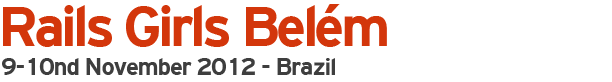
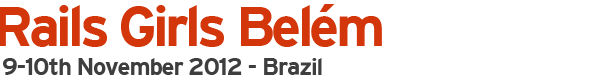
Added more information about the event and changed a letter on the image

Changed region(s): [[0.0, 0.0488, 0.652, 0.5854], [0.0, 0.7073, 0.5588, 0.9268]]

diff --git a/belem.html b/belem.html
@@ -80,92 +80,104 @@
         <hr />          
         
  	 <div class="grid_6 alpha">
-				        <h2>Day 1: 9 de Novembro</h2>
+				        <h2>Dia 1: 9 de Novembro</h2>
 				        <table id="schedule">
 				          <tbody>
 				            <tr>
-				                <th> </th>
+				                <th>19:00 </th>
 				              <td>
 				                <h4>Introduction to Rails Girls</h4>
 
 				              </td>
 				            </tr>
+					    <tr>
+				                <th>19:15 </th>
+				              <td>
+				                <h4>Palestrante</h4>
+						A definir.
 
+				              </td>
+				            </tr>
+					    <tr>
+				                <th>19:30 </th>
+				              <td>
+				                <h4>Instalação</h4>
+						Conheça os coaches e participantes um pouco antes. Traga o seu laptop para instalarmos
+                    o Ruby on Rails para você.
+				              </td>
+				            </tr>
 
 				          </tbody>
 				        </table>
 
 				        <hr />          
 
-				        <h2>Day 2: 10 de Novembro</h2>
+				        <h2>Dia 2: 10 de Novembro</h2>
 
 				           Durante a manhã vamos instalar o Ruby on Rails no seu computador, se você teve algum problema antes.
 
 				                       Faça a sua primeira aplicação web. Teremos pequenas lightning talks, exercícios e vamos por a mão na massa no código.
-									 <table id="schedule">
-								          <tbody>
-								          <tr>
-								            <th></th>
-								            <td>
-								              <h4></h4>
-								                 
-								            </td>
-								          </tr>
-
-								          <tr>
-								            <th></th>
-								            <td>
-								                <h4></h4>
-								            </td>
-								          </tr>
-								              <tr>
-								                  <th></th>
-								                  <td>
-								                      <h4></h4>
-								                  </td>
-								              </tr>
-								              <tr>
-								                  <th></th>
-								                  <td>
-								                      <h4></h4>
-								                  </td>
-								              </tr>
-								              <tr>
-								                  <th></th>
-								                  <td>
-								                      <h4> </h4>
-
-								                     
-								                  </td>
-								              </tr>
-								              <tr>
-								                  <th></th>
-								                  <td>
-								                      <h4></h4>
-								                  </td>
-								              </tr>
-								              <tr>
-								                  <th></th>
-								                  <td>
-								                      <h4></h4>
-								                  </td>
-								              </tr>
-								              <tr>
-								                  <th></th>
-								                  <td>
-								                      <h4></h4>
-								                  </td>
-								              </tr>
-
-								          <tr>
-								            <th></th>
-								            <td>
-								              <h4></h4>
-								              
-								            </td>
-								          </tr>
-								          </tbody>
-								        </table>
+					  <table id="schedule">
+					  <tbody>
+					  <tr>
+					  <th>9:00</th>
+					  <td>
+					    <h4>Confirmação do seu cadastro & Café da Manhã</h4>
+					  </td>
+					  </tr>
+					  <tr>
+					  <th>10:00</th>
+					  <td>
+					      <h4>Welcome & Intro to Rails: Raquel Ohashi</h4>
+					  </td>
+					  </tr>
+					  <tr>
+					  <th>10:15</th>
+					  <td>
+					      <h4>Palestrante</h4>
+					      A definir.
+					  </td>
+					  </tr>
+					  <tr>
+					  <th>10:30</th>
+					  <td>
+					      <h4>Workshop</h4>
+					  </td>
+					  </tr>
+					  <tr>
+					  <th>13:00</th>
+					  <td>
+					      <h4> Almoço</h4>
+					  </td>
+					  </tr>
+					  <tr>
+					  <th>14:00</th>
+					  <td>
+					      <h4>Workshop</h4>
+					  </td>
+					  </tr>
+					  <tr>
+					  <th>17:30</th>
+					  <td>
+					      <h4>Apresentação das Aplicações</h4>
+					  </td>
+					  </tr>
+					  <tr>
+					  <th>18:00</th>
+					  <td>
+					      <h4>Açaí Chat</h4>
+					      Bate-papo sobre o que rolou no evento.
+					  </td>
+					  </tr>
+					  <tr>
+					  <th>19:00</th>
+					  <td>
+					      <h4>After Drinks</h4>
+					      A definir.
+					  </td>
+					  </tr>
+					  </tbody>
+					  </table>
 
 				      </div>
 			
@@ -173,10 +185,10 @@
       <div class="grid_5 push_1 omega side">
        
         
-        <h3>Information</h3>
+        <h3>Informações</h3>
             <p>
               <p><strong>Encerramento de Inscrições:</strong> 2 de Novembro <br/>
-                <strong>Informação sobre sua Inscrição:</strong> 3 de Novembro</p>
+                <strong>Informação e Confirmação sobre sua Inscrição:</strong> 3 de Novembro</p>
           <strong>Local:</strong> Centro Universitário do Pará - FabSoft <br/>
           <a href="http://goo.gl/maps/cu13G" target="_blank">Av. Governador José Malcher, 1963
 		Belém, Pará, Brasil</a>
@@ -220,41 +232,26 @@
   
      <hr/>
      <h3>FAQ</h3>
-          <p><strong>Is this going to be in english?</strong>
-          Nope, most of the event and speeches are going to be done in Portuguese! The local coaches are native speakers. However, some of the inspirational talks as well as instructions might be in english.</p>
           <p><strong>O evento será todo em inglês?</strong> Não! A maioria do evento será feito em português e
           os treinadores serão todos brasileiros. No entanto, parte dos materiais e
           palestras motivacionais poderão estar em inglês.</p>
           
-          <p><strong>How much does the workshop cost?</strong>
-          Nothing, it's free! You just need to be excited!
-          </p>
           <p><strong>Quanto custa o evento?</strong>
           Nada, é de graça! Você só precisa ser curiosa!
           </p>
-          <p>
-          <strong>Who is this aimed for?</strong>
-          Women of any age with basic knowledge of working with a computer. We’ve had people of all ages taking part. Most of the program is run in Portuguese and please bring your laptop.
-          </p>
+
           <p><strong> Qual é o publico alvo?</strong>
-          Mulheres de qualquer idade que tenham um conhecimentobásico em lidar com computadores. Já tivemos participantes de todas as idades. Por favor, traga seu notebook.</p>
-          
-          <p>
-          <strong>Can men attend?</strong>
-          Yes, but you need to be accompanied by an interested lady. Also, girls are given a priority.
-          </p>
+          Mulheres de qualquer idade que tenham um conhecimento básico em lidar com computadores. Já tivemos participantes de todas as idades. Por favor, traga seu notebook.</p>
+	 </p>
           <p>
           <strong>
               Homens podem participar?</strong>
           Sim, mas devem vir acompanhados de uma mulher que
           esteja interessada. Será dada prioridade as mulheres.
           </p>
-          <p>
-          <strong>I know how to program - How can I help?</strong>
-          We’re also looking for people to be coaches. We’ll have a two-three hour workshop before the event to walk you through the curriculum. <a href="mailto:railsgirlsbelem@gmail.com">Email us</a>
-          </p>
+
           <p><strong>Eu sei programar! Como posso ajudar?</strong> Estamos procurando por treinadores. Nós
-          teremos um workshop de 3 horas antes do evento para explicar como será passado o currículo.
+          teremos um workshop de 3 horas uma semana antes do evento para explicar como será passado o currículo. Nos envie um <a href="mailto:railsgirlsbelem@gmail.com">email</a>!
           </p>
       
         
@@ -263,26 +260,27 @@
       <div class="coaches">
         <hr />
         <h2>Belém team</h2>
-
-          
+	
          <a href="https://twitter.com/RaquelOhashi" class="grid_3">
         Raquel Ohashi, organizer
         <small>@RaquelOhashi</small>
         </a>
-          
-          <a class="grid_3">
+          <a href="https://twitter.com/priscila_h_r" class="grid_3">
               Priscila Ribeiro, organizer
+	  <small>@priscila_h_r</small>
           </a>        
           <a  href="https://twitter.com/LourdileneSouza" class="grid_3">
               Lourdilene Souza, organizer
-			<small>@LourdileneSouza</small>
+	  <small>@LourdileneSouza</small>
           </a>  
           <a  href="https://twitter.com/esielg" class="grid_3">
               Gleise Baldez, organizer
-			<small>@esielg</small>
+	  <small>@esielg</small>
           </a> 
-
-		<a class="grid_3">
+	  <a class="grid_3">
+              Manu Guedes, organizer
+          </a>
+	  <a class="grid_3">
               Rafaella Cavalcante, organizer
           </a>
           
